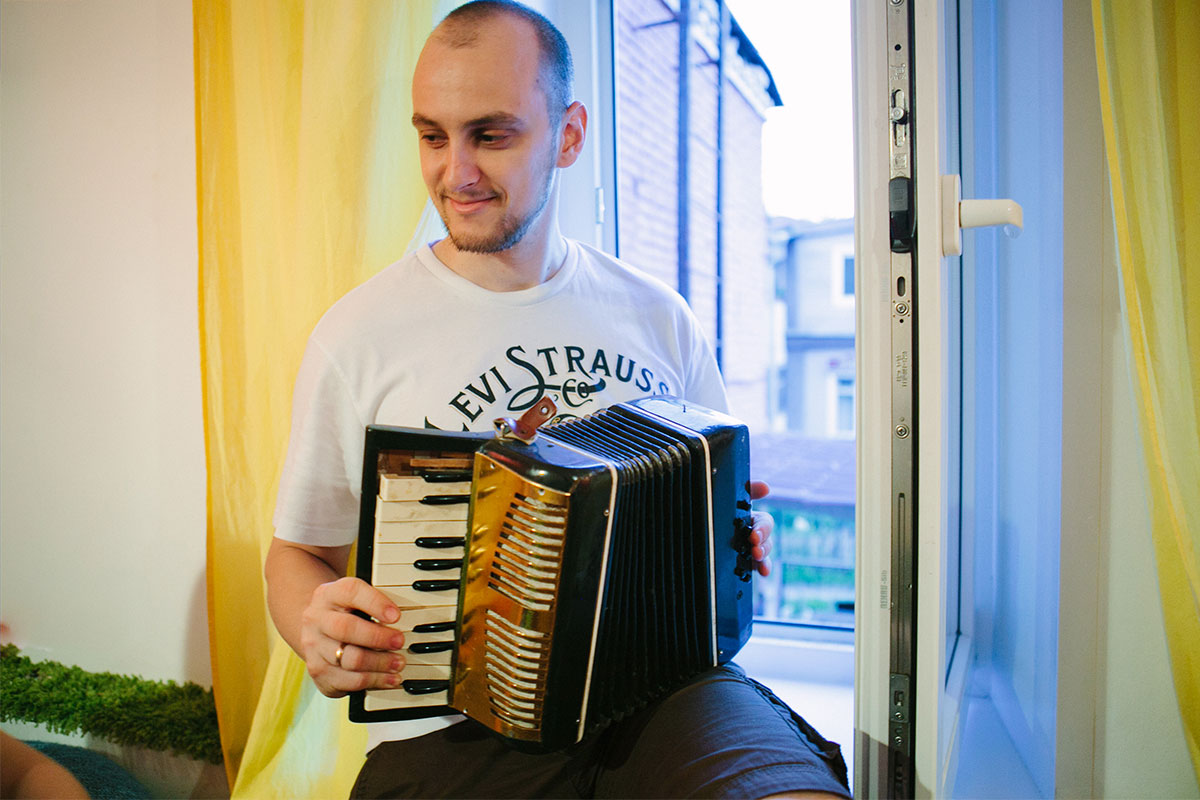
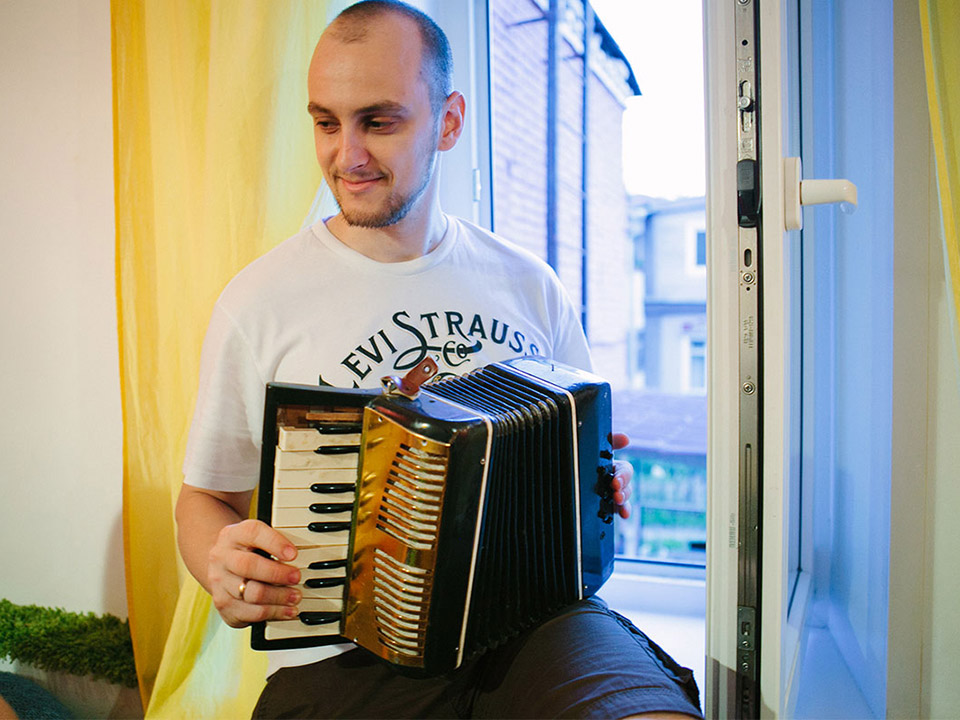
правки
- добавлен перерыв
- изменена фотография

diff --git a/index.html b/index.html
@@ -128,6 +128,7 @@
                 <blockquote>Андрей Ваганов, AdvantShop.net</blockquote>
             </div>
         </section>
+        <section class="rest">Перерыв (13:00 - 14:00)</section>
         <section class="spotlight">
             <div class="image"><img src="images/shoot.jpg" alt="" /></div><div class="content">
                 <h2>Мы вставили сайт в ваш Email</h2>

diff --git a/assets/css/main.css b/assets/css/main.css
@@ -2482,6 +2482,15 @@
 
 			}
 
+/* Rest */
+	.rest {
+		text-align: center;
+		padding: 100px;
+		border-top: 3px solid white;
+		border-bottom: 3px solid white;
+		font-size: 16px;
+	}
+
 /* Spotlight */
 
 	.spotlight {
